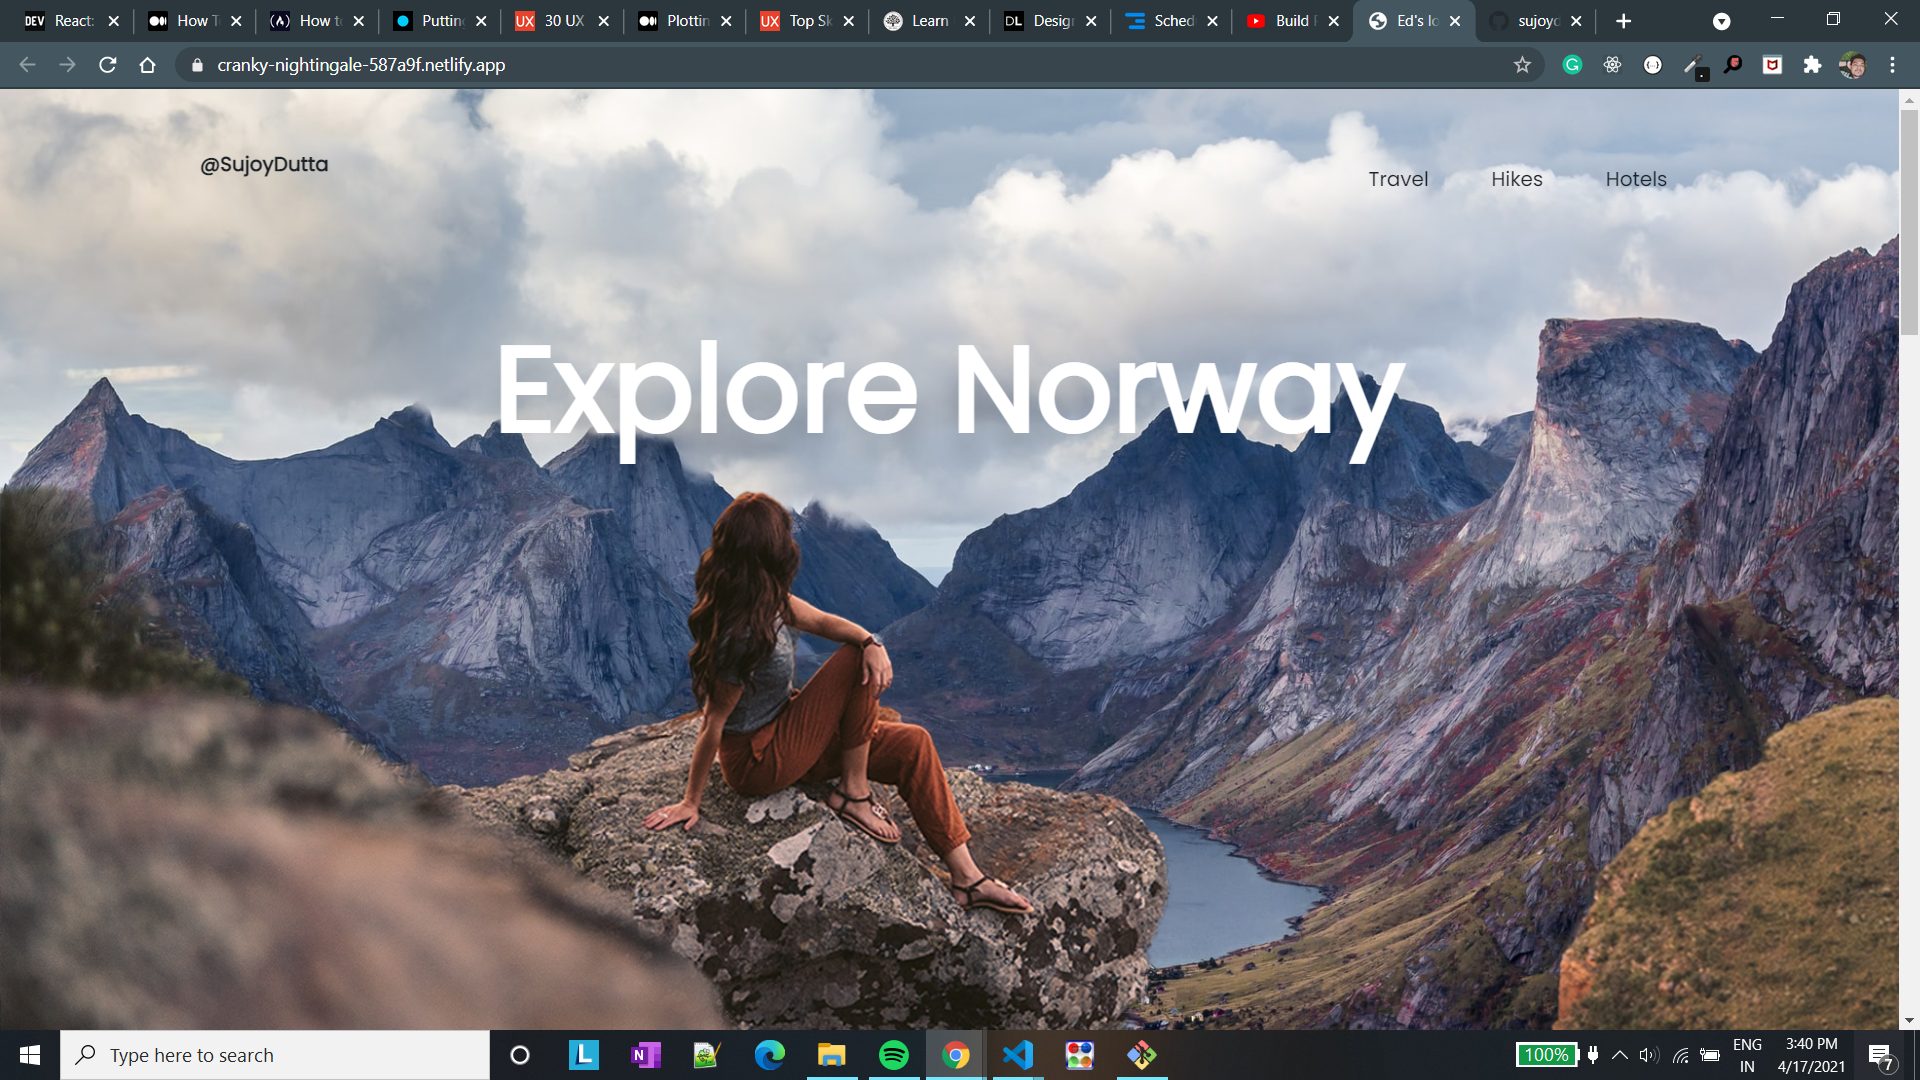
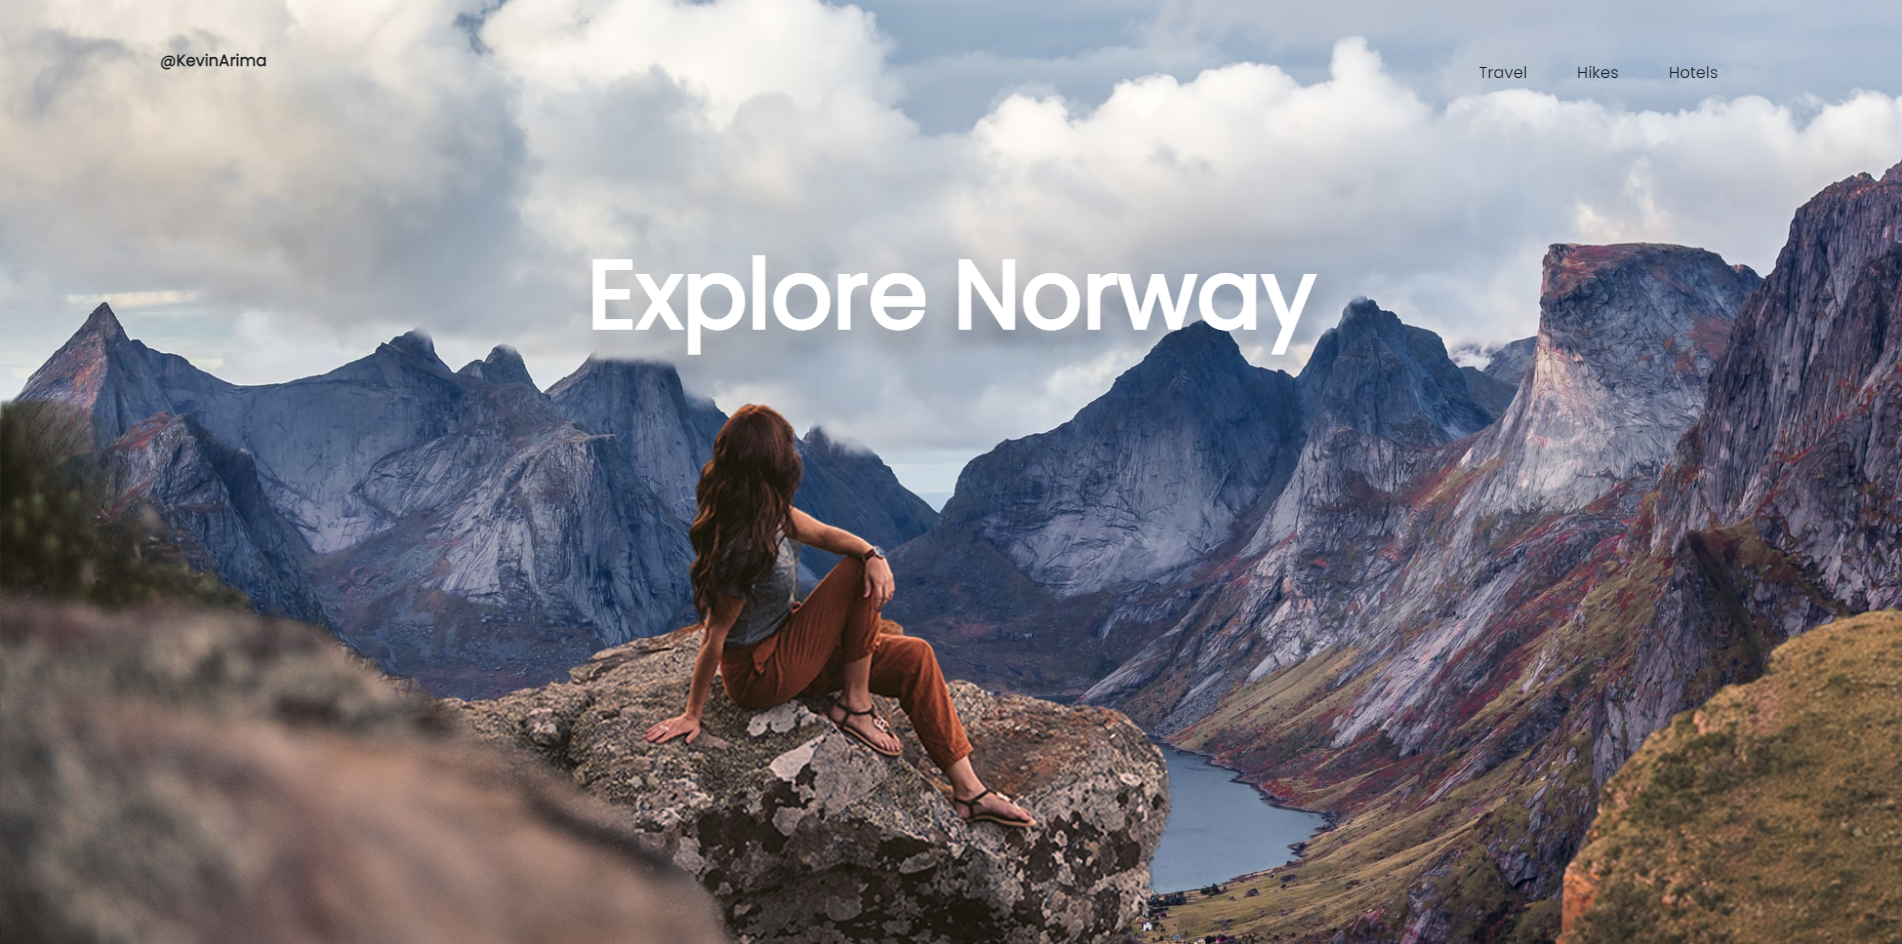
update

diff --git a/index.html b/index.html
@@ -16,7 +16,7 @@
   <body>
     <section>
       <nav>
-        <h4>@SujoyDutta</h4>
+        <h4>@KevinArima</h4>
         <div class="nav-container">
           <div class="button"><a >Travel</a></div>
           <div class="button"><a >Hikes</a></div>
